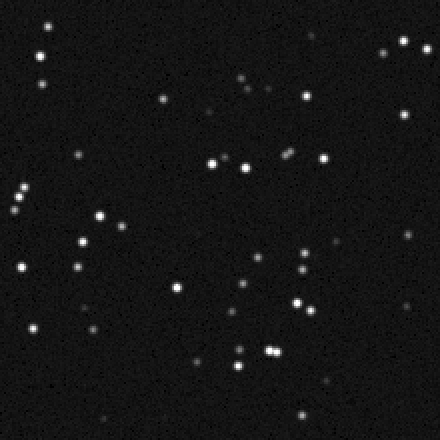
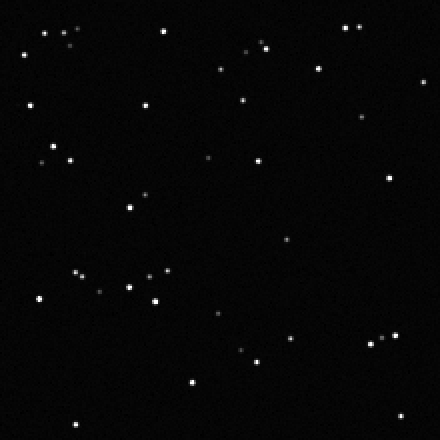
docs: refresh sim doc gallery for flux stars
Retune the star-bearing gallery panels (star_field, body_and_stars,
composite_scene) to explicit bright point sources, since the flux-normalized
star model leaves a faint sky field at the read-noise floor. Re-render the
whole gallery, stale since phase A, against the current renderer (baselines
byte-identical, so the render is canonical).

diff --git a/tests/integration/sim_doc_images.py b/tests/integration/sim_doc_images.py
@@ -26,6 +26,8 @@ import sys
 from pathlib import Path
 from typing import Any
 
+import numpy as np
+
 from spindoctor.sim.png_export import render_scene_png
 from spindoctor.sim.scene import load_sim_scene, validate_sim_params
 
@@ -82,6 +84,47 @@ def _mesh(**over: Any) -> dict[str, Any]:
     return body
 
 
+def _scatter_stars(
+    count: int,
+    seed: int,
+    *,
+    size: int = 220,
+    vmag_lo: float = 3.0,
+    vmag_hi: float = 6.0,
+    margin: float = 8.0,
+) -> list[dict[str, Any]]:
+    """Return a deterministic spread of explicit bright catalog stars.
+
+    Under the flux-normalized star model a faint sky-count field sits at the
+    read-noise floor, so a legible star-field panel is built from explicit
+    bright stars (a few hundred DN each) scattered across the frame rather than
+    a dense faint sky.  The draw is seeded, so the panel is reproducible.
+
+    Parameters:
+        count: Number of stars to scatter.
+        seed: Seed for the reproducible position / magnitude draw.
+        size: Frame edge length in pixels (stars land inside a margin of it).
+        vmag_lo: Bright end of the magnitude draw.
+        vmag_hi: Faint end of the magnitude draw.
+        margin: Keep-out border in pixels so no star clips the frame edge.
+
+    Returns:
+        A list of ``{name, v, u, vmag}`` star dicts.
+    """
+    rng = np.random.default_rng(seed)
+    stars: list[dict[str, Any]] = []
+    for i in range(count):
+        stars.append(
+            {
+                'name': f'S{i}',
+                'v': round(float(rng.uniform(margin, size - margin)), 1),
+                'u': round(float(rng.uniform(margin, size - margin)), 1),
+                'vmag': round(float(rng.uniform(vmag_lo, vmag_hi)), 2),
+            }
+        )
+    return stars
+
+
 # (filename, sim_params, render kwargs) for the developer-guide gallery.
 _GUI_GALLERY: list[tuple[str, dict[str, Any], dict[str, Any]]] = [
     ('ellipsoid_body', _scene([_ellipsoid()]), {'gamma': 1.1}),
@@ -126,16 +169,20 @@ _GUI_GALLERY: list[tuple[str, dict[str, Any], dict[str, Any]]] = [
         _scene(
             [],
             optics={'psf': {'match_navigator': True}},
-            sky_counts={'density_factor': 300.0},
+            stars=_scatter_stars(45, 11, vmag_hi=6.5),
+            sky_counts={'a': -1.5, 'b': 0.34, 'density_factor': 1.0},
+            noise={'poisson': True, 'read_noise_dn': 1.5},
         ),
-        {'gamma': 1.9, 'high_percentile': 99.9},
+        {'gamma': 1.6, 'high_percentile': 99.9},
     ),
     (
         'body_and_stars',
         _scene(
             [_ellipsoid(axis1=120.0, axis2=95.0, axis3=85.0)],
             optics={'psf': {'match_navigator': True}},
-            sky_counts={'density_factor': 200.0},
+            stars=_scatter_stars(28, 5),
+            sky_counts={'a': -1.8, 'b': 0.34, 'density_factor': 1.0},
+            noise={'poisson': True, 'read_noise_dn': 2.0},
         ),
         {'gamma': 1.6, 'high_percentile': 99.9},
     ),
@@ -181,7 +228,8 @@ _GUI_GALLERY: list[tuple[str, dict[str, Any], dict[str, Any]]] = [
         _scene(
             [_mesh(name='MOON', center_v=140.0, center_u=95.0, axis1=90.0, axis2=72.0, axis3=66.0)],
             optics={'psf': {'match_navigator': True}},
-            sky_counts={'density_factor': 150.0},
+            stars=_scatter_stars(22, 3),
+            sky_counts={'a': -1.8, 'b': 0.34, 'density_factor': 1.0},
             rings=[
                 {
                     'name': 'RINGLET',
